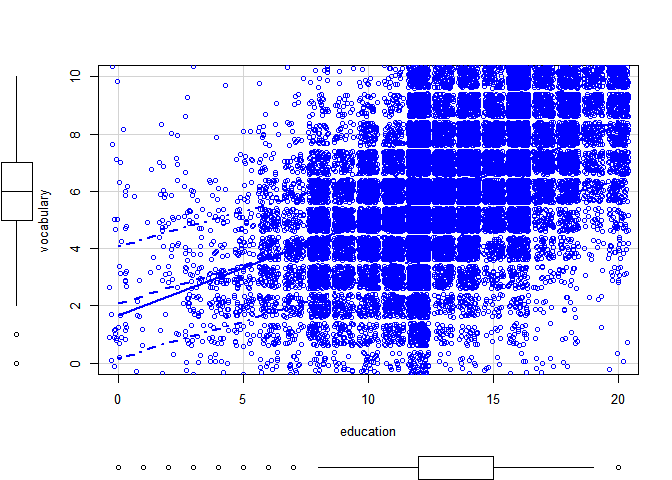
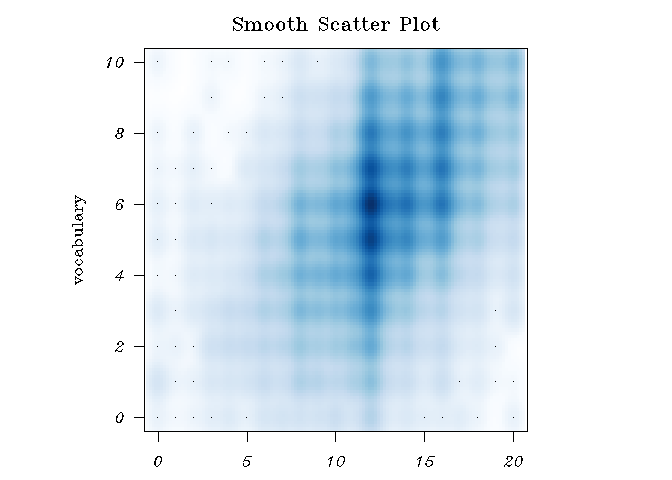
smooth scatter plot

diff --git a/README.md b/README.md
@@ -10,107 +10,111 @@ This repo is a simple container for my practice plots. I work with *ggplot*, *ma
 The Plots
 ---------
 
+**Plot 24 September 28, 2018:** Continuing with different charts that are well-suited to plotting large datasets and distinguising trends in densly plotted cooridinate spaces, today we'll look at a smooth scatter plot. The smooth scatter plot uses color saturation and intensity to show areas of high density. The smooth scatter plot shows granular detail better than the jitter or sunflower plots could.
+
+<img src="README-unnamed-chunk-1-1.png" style="display: block; margin: auto;" />
+
 **Plot 23 September 23, 2018:** Scatter plots that use discrete data with a large number of points tend to overplot masking the true density across the plot space. One method available to deal with this is to apply a jitter function that offsets each point so that they aren't plotted directly over other points.
 
 The examples below are from *Graphing Data with R*.
 
-<img src="README-unnamed-chunk-1-1.png" style="display: block; margin: auto;" />
+<img src="README-unnamed-chunk-2-1.png" style="display: block; margin: auto;" />
 
 The sunflower plot offers an alternative to applying the jitter function to discrete data that tends to overplot. A *petal* or line is drawn for each observation that fall on a particular coordinate in the plot. The sunflower plot is one option for revealing the density of overplotted data.
 
-![](README-unnamed-chunk-2-1.png)
+![](README-unnamed-chunk-3-1.png)
 
 **Plot 22 September 22, 2018:** The trellis plot is means of effectively controlling for categorical variables by plotting separately the intersections between the levels of these variables. The `xyplot()` function is part of the lattice package which is specifically designed for producing trellis plots. Here's an example, that separates or facets a two-variable scatter plot by the levels of third variable using panels or frames for each level of the control variable:
 
-<img src="README-unnamed-chunk-3-1.png" style="display: block; margin: auto;" />
+<img src="README-unnamed-chunk-4-1.png" style="display: block; margin: auto;" />
 
 **Plot 21 September 18, 2018:** Today's plot uses the scatter plot function in the `car` package.
 
-<img src="README-unnamed-chunk-4-1.png" style="display: block; margin: auto;" />
+<img src="README-unnamed-chunk-5-1.png" style="display: block; margin: auto;" />
 
 **Plot 20 September 9, 2018:** Today is a single plot similar to the comibnation histogram and line plot in the last study. This time the default axis labels will be suppressed in favor of custom labels that give more information about independent and dependent variables.
 
-<img src="README-unnamed-chunk-5-1.png" style="display: block; margin: auto;" />
+<img src="README-unnamed-chunk-6-1.png" style="display: block; margin: auto;" />
 
 **Plot 19 September 7, 2018:** A look at line plots, again using *Graphing Data with R*.
 
-<img src="README-unnamed-chunk-6-1.png" style="display: block; margin: auto;" />
+<img src="README-unnamed-chunk-7-1.png" style="display: block; margin: auto;" />
 
 **Plot 18 September 5, 2018:** Next up is a study of scatter plots using *Graphing Data with R*. I think of scatter plots as akin to strip plots over two dimensions instead of just one. This is a versatile plot, not only allowing you to look at distributions or identify trends, but also to identify outliers and data points with potentially undue leverage. Depending on how the plot is implemented (i.e with labels or information contained in a hover tool), scatter plots can also be used to examine individual data points and compare their values to other points.
 
-<img src="README-unnamed-chunk-7-1.png" style="display: block; margin: auto;" />
+<img src="README-unnamed-chunk-8-1.png" style="display: block; margin: auto;" />
 
 **Plot 17 September 3, 2018** Rug plots are appended to other types of charts in order to show single variable distributions that might otherwise not be apparent in the principal chart. Rug plots are conceptually similar to strip plots.
 
-<img src="README-unnamed-chunk-8-1.png" style="display: block; margin: auto;" />
+<img src="README-unnamed-chunk-9-1.png" style="display: block; margin: auto;" />
 
 **Plot 16 September 1, 2018** Fan plots show proportional differences much better than the similar pie chart, but are not widely known or used so they can be confusing unless some instruction is given on how to interpret them.
 
-<img src="README-unnamed-chunk-9-1.png" style="display: block; margin: auto;" />
+<img src="README-unnamed-chunk-10-1.png" style="display: block; margin: auto;" />
 
 At first, it wasn't clear with this plot how the total arc-span of the full plot is determined. For example, the plot above from *Graphing Data with R* happens to plot a aesthetically appealing angle, but when I tried plotting some data on some data of my own the results were different, specifically the total arc.
 
-<img src="README-unnamed-chunk-10-1.png" style="display: block; margin: auto;" />
+<img src="README-unnamed-chunk-11-1.png" style="display: block; margin: auto;" />
 
 The arc of the fan is much wider and more difficult to take in at a glance, not to mention the title is pushed almost completely out of the plotframe. The argument that can be used to set the total arc is `max.span` and it takes radian values. For the same vector plotted above, I this time tried different values for `max.span`.
 
-<img src="README-unnamed-chunk-11-1.png" style="display: block; margin: auto;" />
+<img src="README-unnamed-chunk-12-1.png" style="display: block; margin: auto;" />
 
 I tried some other values for `max.span` but with mixed results. For example, using `pi` resulted in a chart of which half looked like it was missing.
 
-<img src="README-unnamed-chunk-12-1.png" style="display: block; margin: auto;" />
+<img src="README-unnamed-chunk-13-1.png" style="display: block; margin: auto;" />
 
 It seems like an arc of `2*pi/3 >= max.span > pi` is the best option. Values less than 2\*pi/3 risk not leaving enough room for labels.
 
 **Plot 15 August 30, 2018** It's fallen out of vogue because it's difficult to interpret accurately, but the pie plot can still work well to show the proportional differences of a variable with two or three levels. A study of pie charts from *Graphing Data with R*.
 
-<img src="README-unnamed-chunk-13-1.png" style="display: block; margin: auto;" />
+<img src="README-unnamed-chunk-14-1.png" style="display: block; margin: auto;" />
 
 **Plot 14 - August 29, 2018** Study of bar plot orientation and spacing from *Graphing Data with R*.
 
-<img src="README-unnamed-chunk-14-1.png" style="display: block; margin: auto;" />
+<img src="README-unnamed-chunk-15-1.png" style="display: block; margin: auto;" />
 
 **Plot 13 - August 28, 2018** Bar Plot exercise from *Graphing Data with R*.
 
-<img src="README-unnamed-chunk-15-1.png" style="display: block; margin: auto;" />
+<img src="README-unnamed-chunk-16-1.png" style="display: block; margin: auto;" />
 
 Spine Plot
 
-<img src="README-unnamed-chunk-16-1.png" style="display: block; margin: auto;" />
+<img src="README-unnamed-chunk-17-1.png" style="display: block; margin: auto;" />
 
 **Plot 12 - August 26, 2018** Cumulative distribution plot from *Graphing Data with R*.
 
-<img src="README-unnamed-chunk-17-1.png" style="display: block; margin: auto;" />
+<img src="README-unnamed-chunk-18-1.png" style="display: block; margin: auto;" />
 
 **Plot 11 - August 23, 2018** Practice of density plot and cumulative distribution plot from *Graphing Data with R*.
 
-<img src="README-unnamed-chunk-18-1.png" style="display: block; margin: auto;" />
-
 <img src="README-unnamed-chunk-19-1.png" style="display: block; margin: auto;" />
-
-**Plot 10 - August 22, 2018** Study of histograms from *Graphing Data with R*.
 
 <img src="README-unnamed-chunk-20-1.png" style="display: block; margin: auto;" />
 
-![](README-unnamed-chunk-21-1.png)
+**Plot 10 - August 22, 2018** Study of histograms from *Graphing Data with R*.
+
+<img src="README-unnamed-chunk-21-1.png" style="display: block; margin: auto;" />
 
 ![](README-unnamed-chunk-22-1.png)
 
-<img src="README-unnamed-chunk-23-1.png" style="display: block; margin: auto;" />
+![](README-unnamed-chunk-23-1.png)
 
 <img src="README-unnamed-chunk-24-1.png" style="display: block; margin: auto;" />
 
+<img src="README-unnamed-chunk-25-1.png" style="display: block; margin: auto;" />
+
 **Plot 9 - August 17, 2018** Practicing with *Graphing Data with R*, a mainstay of single variable EDA, the boxplot.
 
-<img src="README-unnamed-chunk-25-1.png" style="display: block; margin: auto;" /><img src="README-unnamed-chunk-25-2.png" style="display: block; margin: auto;" /><img src="README-unnamed-chunk-25-3.png" style="display: block; margin: auto;" />
+<img src="README-unnamed-chunk-26-1.png" style="display: block; margin: auto;" /><img src="README-unnamed-chunk-26-2.png" style="display: block; margin: auto;" /><img src="README-unnamed-chunk-26-3.png" style="display: block; margin: auto;" />
 
 **Plot 8 - August 16, 2018** Still working with *Graphing Data with R*. Next chart is a dot plot that adds another dimension over the simple strip plot.
 
-<img src="README-unnamed-chunk-26-1.png" style="display: block; margin: auto;" />
+<img src="README-unnamed-chunk-27-1.png" style="display: block; margin: auto;" />
 
 **Plot 7 - August 15, 2018** Picked up Hilfiger's *Graphing Data with R*. To start the simple strip plot used for getting a quick look at the distribution and density of a variable.
 
-<img src="README-unnamed-chunk-27-1.png" style="display: block; margin: auto;" />
+<img src="README-unnamed-chunk-28-1.png" style="display: block; margin: auto;" />
 
 **Plot 7 - June 6, 2018** Surveying the repertoire of basic Tableau charts. Practicing plots and here is the highlight chart with and without text.
 
@@ -120,11 +124,11 @@ Spine Plot
 
 **Plot 6 - May 18, 2018** A simple visualization using the [`elliplot` package](https://github.com/cran/elliplot) by Shinichiro Tomizono.The `ellipseplot` function that produces a correlation chart and visualizes the effect of factors on the relationship between the two principal variables. This plot is to test the capabilities of the function and is not optimized in terms of formatting.
 
-<img src="README-unnamed-chunk-28-1.png" style="display: block; margin: auto;" />
+<img src="README-unnamed-chunk-29-1.png" style="display: block; margin: auto;" />
 
 **Plot 5 - May 6, 2018** This visualization was a duplication exercise of a [plot in the NYTimes](https://www.nytimes.com/2018/05/04/business/economy/jobs-report.html). It was created using ggplot2.
 
-<img src="README-unnamed-chunk-29-1.png" style="display: block; margin: auto;" />
+<img src="README-unnamed-chunk-30-1.png" style="display: block; margin: auto;" />
 
 **Plot 4 - May 5, 2018**
 
@@ -160,4 +164,4 @@ This plot is my rendition of a [beautiful line graph](https://www.nytimes.com/in
 
 The plot was built with ggplot2 in RStudio.The dataset is documented and available from the [National Snow & Ice Data Center](https://nsidc.org/data/search/#keywords=sea+ice/sortKeys=score,,desc/facetFilters=%257B%257D/pageNumber=1/itemsPerPage=25) with compressed csv files for download at a [linked FTP server](ftp://sidads.colorado.edu/DATASETS/NOAA/G02135/).
 
-<img src="README-unnamed-chunk-35-1.png" style="display: block; margin: auto;" />
+<img src="README-unnamed-chunk-36-1.png" style="display: block; margin: auto;" />
